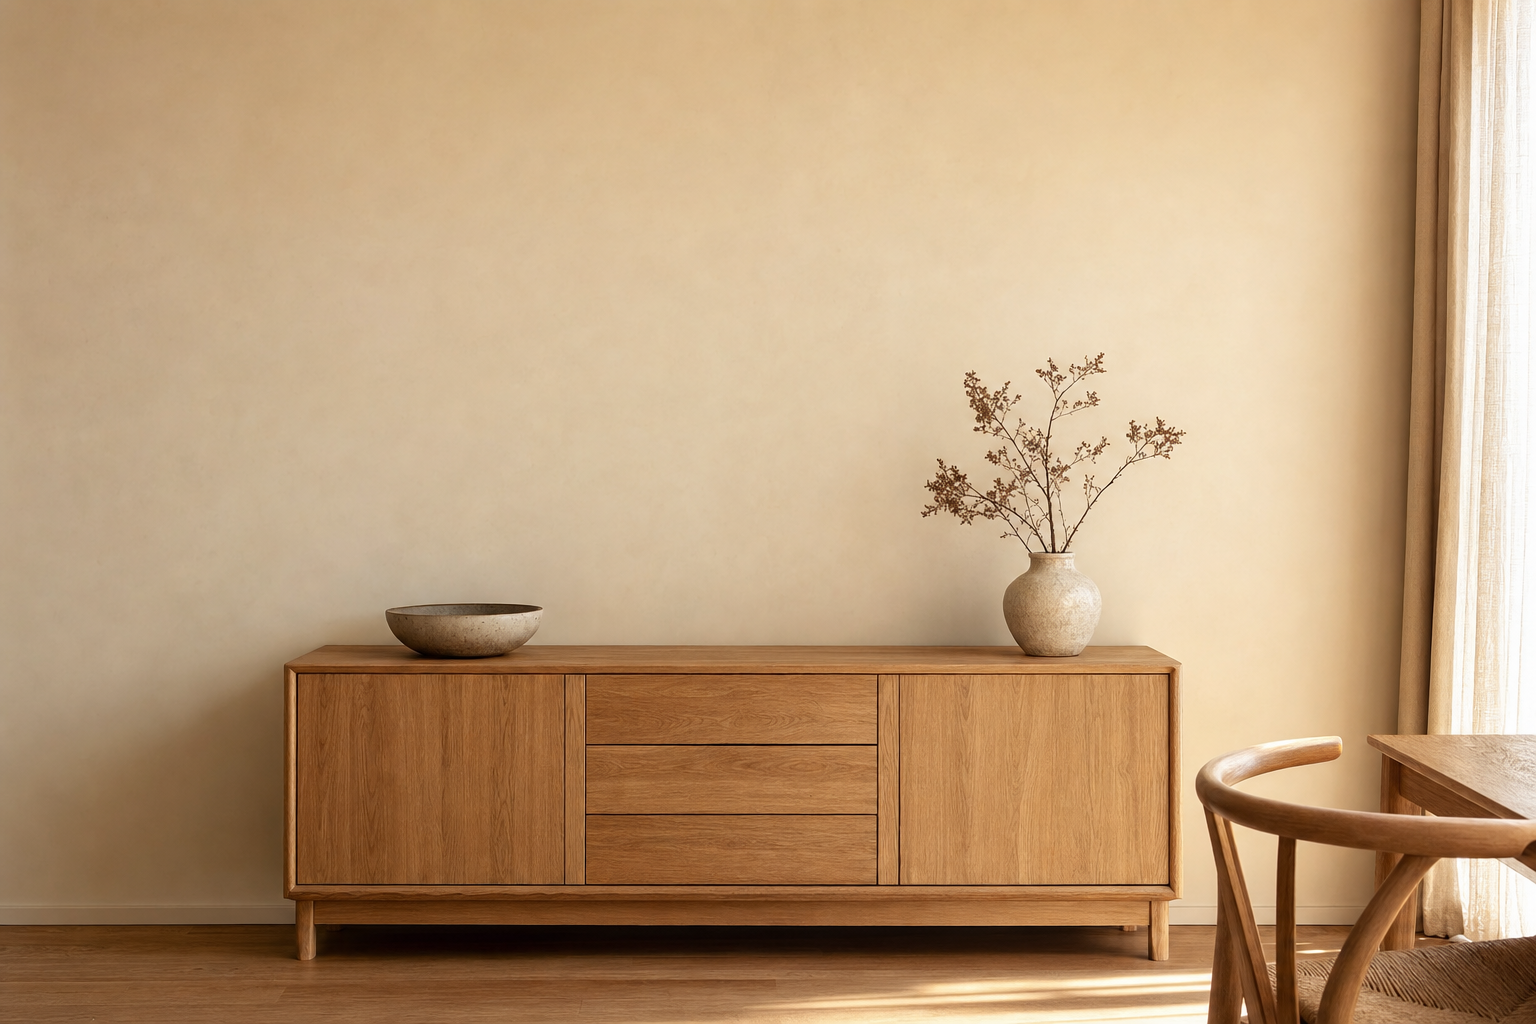
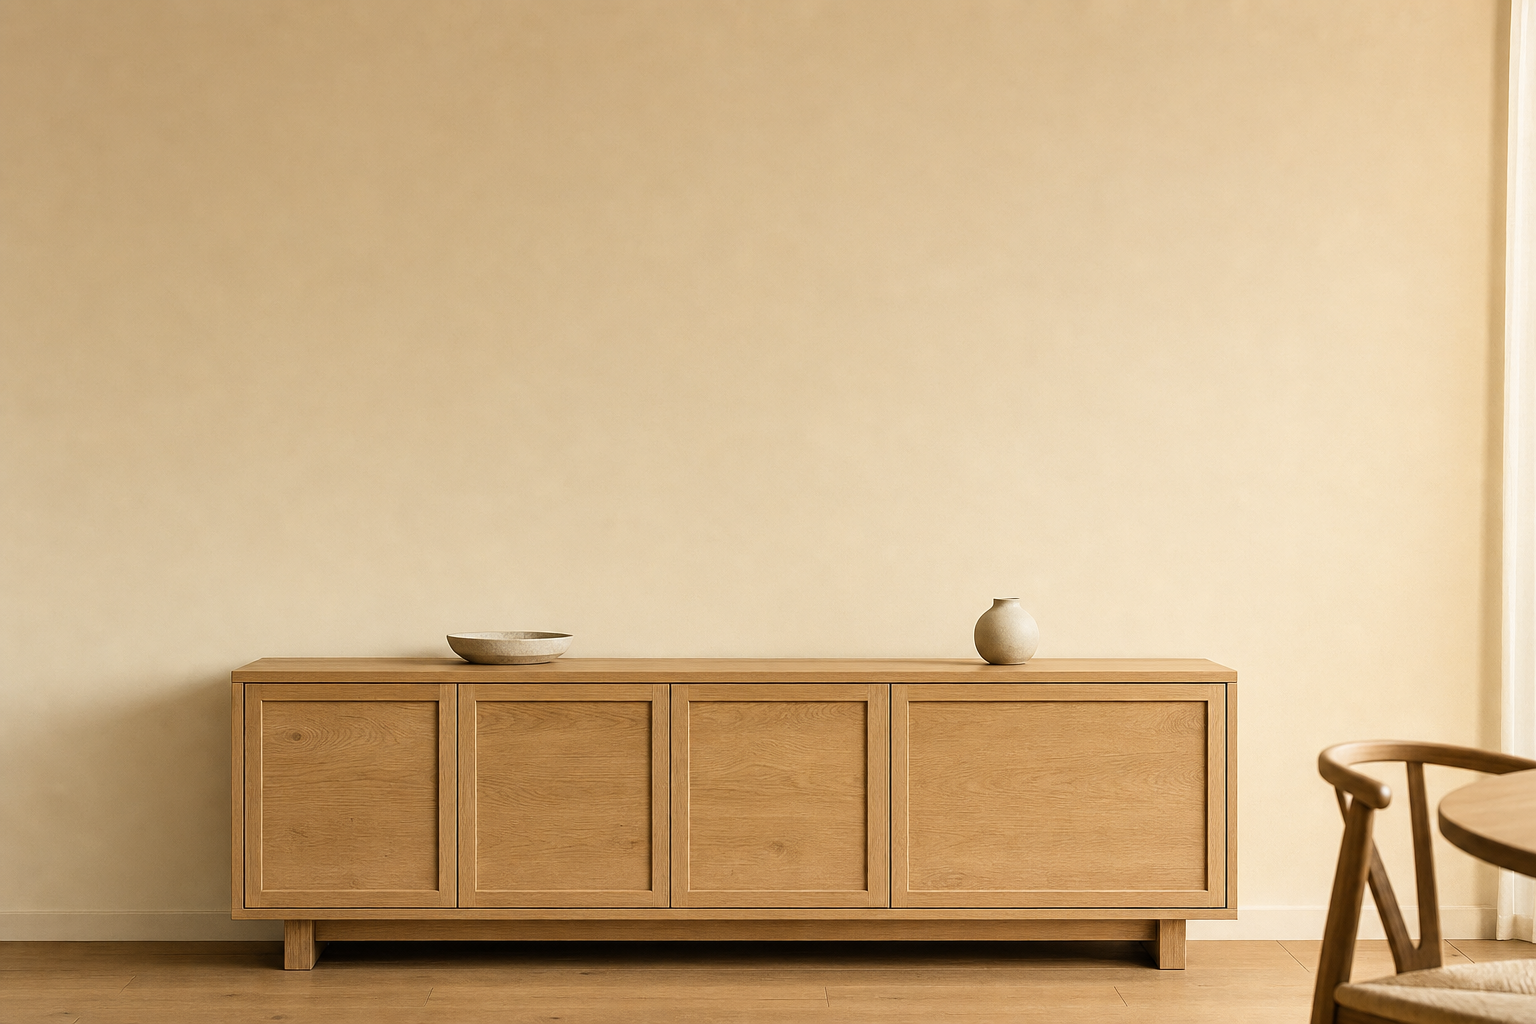
fix: jadalnia bez wysokich galazek nad komoda
Wazon z wysokimi galazkami stal dokladnie tam, gdzie konczy sie prawa rama, wiec przy KAZDYM zestawie zderzal sie z nia wizualnie. Przesuniecie ram nic by nie dalo — przestalyby byc wysrodkowane nad komoda.

Prompt wymusza teraz wylacznie NISKIE rekwizyty (plaska miska, maly zamkniety wazon) i wprost zakazuje galezi, roslin i lamp wystajacych ponad komode. Sciana nad meblem ma zostac calkowicie czysta — to samo podejscie co przy zakazie obrazow na scianie.

Tlo wygenerowane ponownie, wizualizacje wszystkich trzech zestawow przebudowane.

diff --git a/src/setRoomBackgrounds.js b/src/setRoomBackgrounds.js
@@ -69,10 +69,15 @@ const ROOMS = [
     label: 'Jadalnia — nad komodą',
     anchor: 'sideboard',
     room: 'a warm contemporary dining room',
+    // Rekwizyty musza byc NISKIE. Pierwsza wersja miala wazon z wysokimi
+    // galazkami dokladnie tam, gdzie konczy sie prawa rama — przy kazdym
+    // zestawie zderzaly sie wizualnie z oprawa.
     furniture:
-      'a light oak sideboard against the wall in the lower third, a ceramic bowl and a small vase with ' +
-      'dried branches on top, part of a dining chair visible at the edge, warm wooden floor, ' +
-      'soft daylight from the right.',
+      'a light oak sideboard against the wall in the lower third, with only LOW objects on top: ' +
+      'a shallow ceramic bowl and a small closed vase, both no taller than a hand. ' +
+      'NO tall branches, NO dried stems, NO plants, NO lamps and nothing else rising above the ' +
+      'sideboard — the wall above it must stay completely clear. ' +
+      'Part of a dining chair visible at the edge, warm wooden floor, soft daylight from the right.',
     wall: 'warm sand beige',
     // Wyzej i wezej niz salon — przy 0.10/0.51 prawa rama dochodzila do galazek w wazonie.
     zone: { x: 0.235, y: 0.07, w: 0.48, h: 0.42 },
